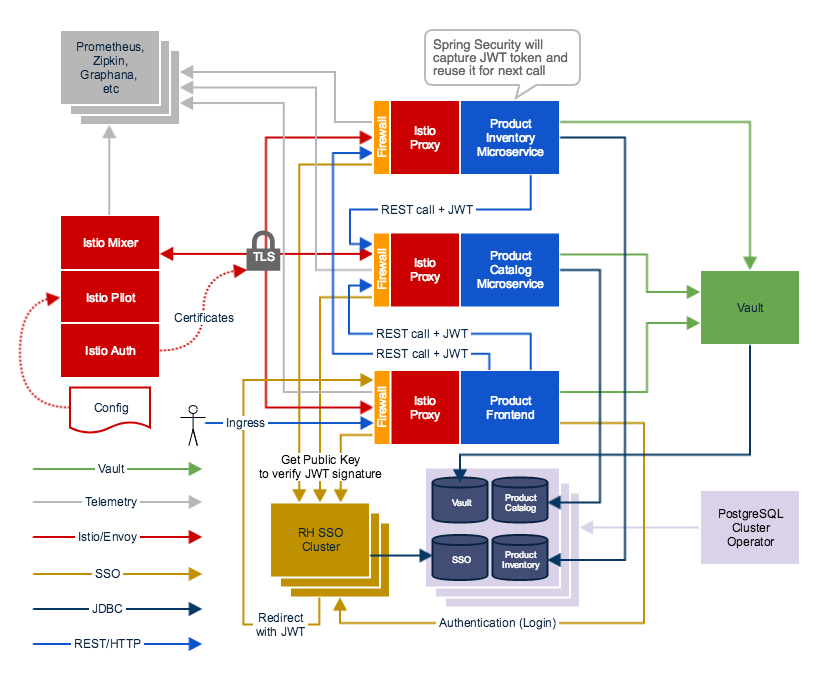
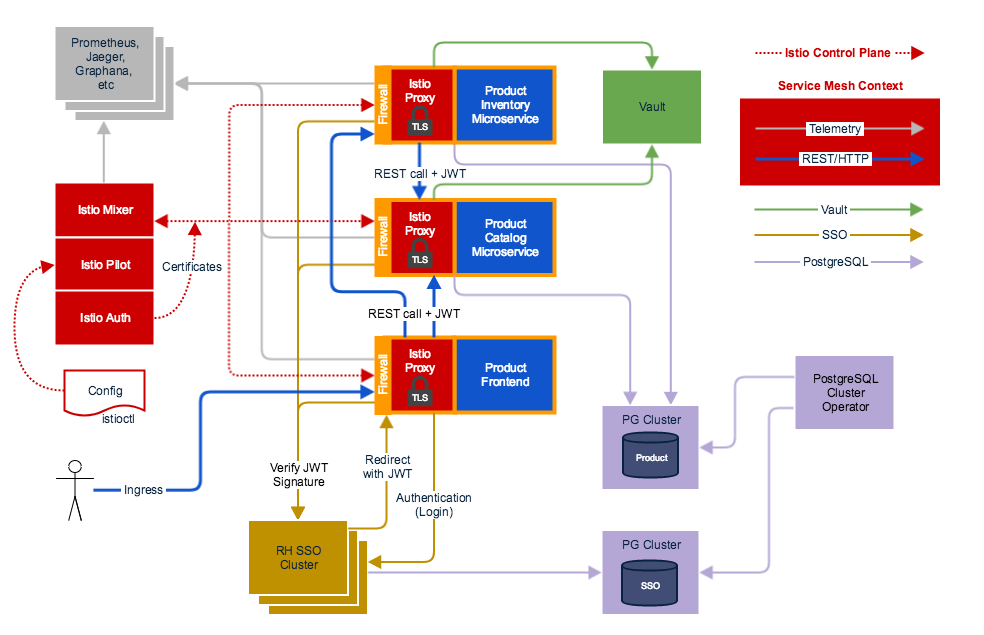
Update diagram and addons

diff --git a/istio/addons.md b/istio/addons.md
@@ -1,0 +1,32 @@
+
+Istio Addons Installation
+==================
+
+* Deploy additional add-ons, namely Prometheus, Grafana, Service Graph and Zipkin.
+
+```
+oc login -u system:admin
+
+oc project istio-system
+
+oc create -f install/kubernetes/addons/prometheus.yaml
+oc create -f install/kubernetes/addons/grafana.yaml
+oc create -f install/kubernetes/addons/servicegraph.yaml
+TODO: Jaeger
+oc create -f install/kubernetes/addons/zipkin.yaml
+oc expose svc grafana
+oc expose svc servicegraph
+oc expose svc zipkin
+oc expose svc prometheus
+```
+
+Do `oc get pod` to make sure everything is up and running.
+
+Add a user to the project so they can access from Web Console.
+
+```oc adm policy add-role-to-user admin <YOUR USER>```
+
+References
+----------
+
+* [Evaluate Istio on OpenShift](https://blog.openshift.com/evaluate-istio-openshift/)

diff --git a/istio/README.md b/istio/README.md
@@ -32,14 +32,6 @@ export PATH="$PATH:~/$ISTIO/bin"
 cd $ISTIO
 oc apply -f install/kubernetes/istio.yaml
 
-oc create -f install/kubernetes/addons/prometheus.yaml
-oc create -f install/kubernetes/addons/grafana.yaml
-oc create -f install/kubernetes/addons/servicegraph.yaml
-oc create -f install/kubernetes/addons/zipkin.yaml
-oc expose svc grafana
-oc expose svc servicegraph
-oc expose svc zipkin
-oc expose svc prometheus
 ```
 
 Do `oc get pod` to make sure everything is up and running.

diff --git a/README.md b/README.md
@@ -46,5 +46,5 @@ Here are the steps for the installation:
 10. Configure app to use Istio
 11. Configure Istio to do Mutual TLS authentication
 12. Configure istio to do OAuth Authentication via RH SSO
-13. [Istio Add-ons installation (prometheus, Jaeger)](./istio/README.md)
+13. [Istio Add-ons installation (prometheus, Jaeger)](./istio/addons.md)
 14. Configure microsegmentation
